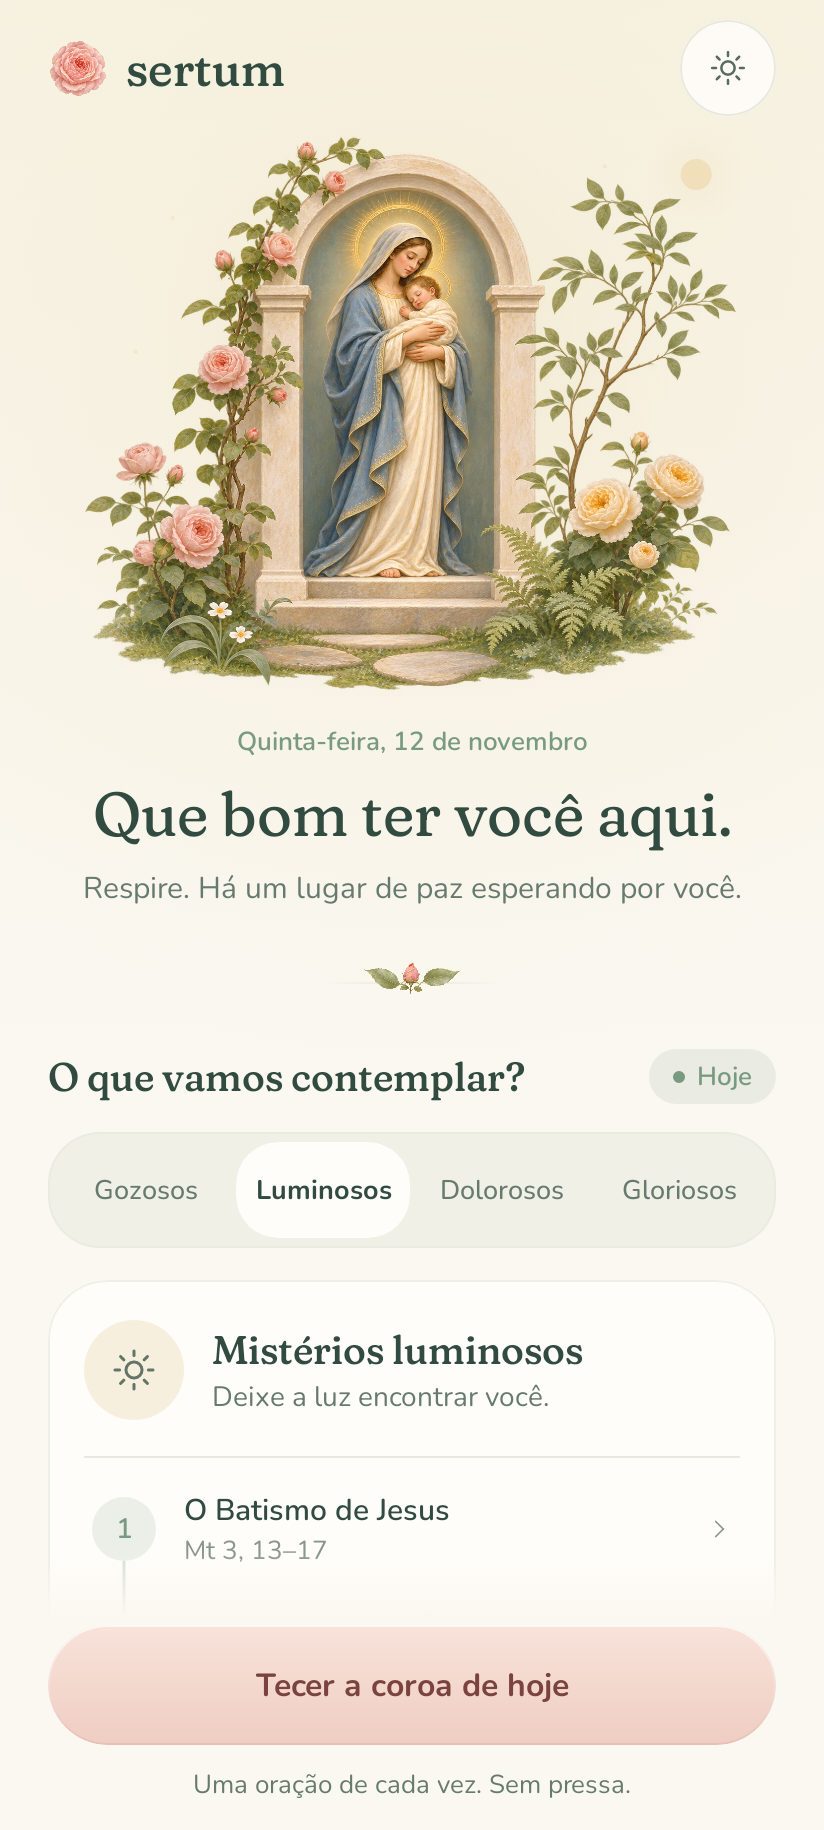
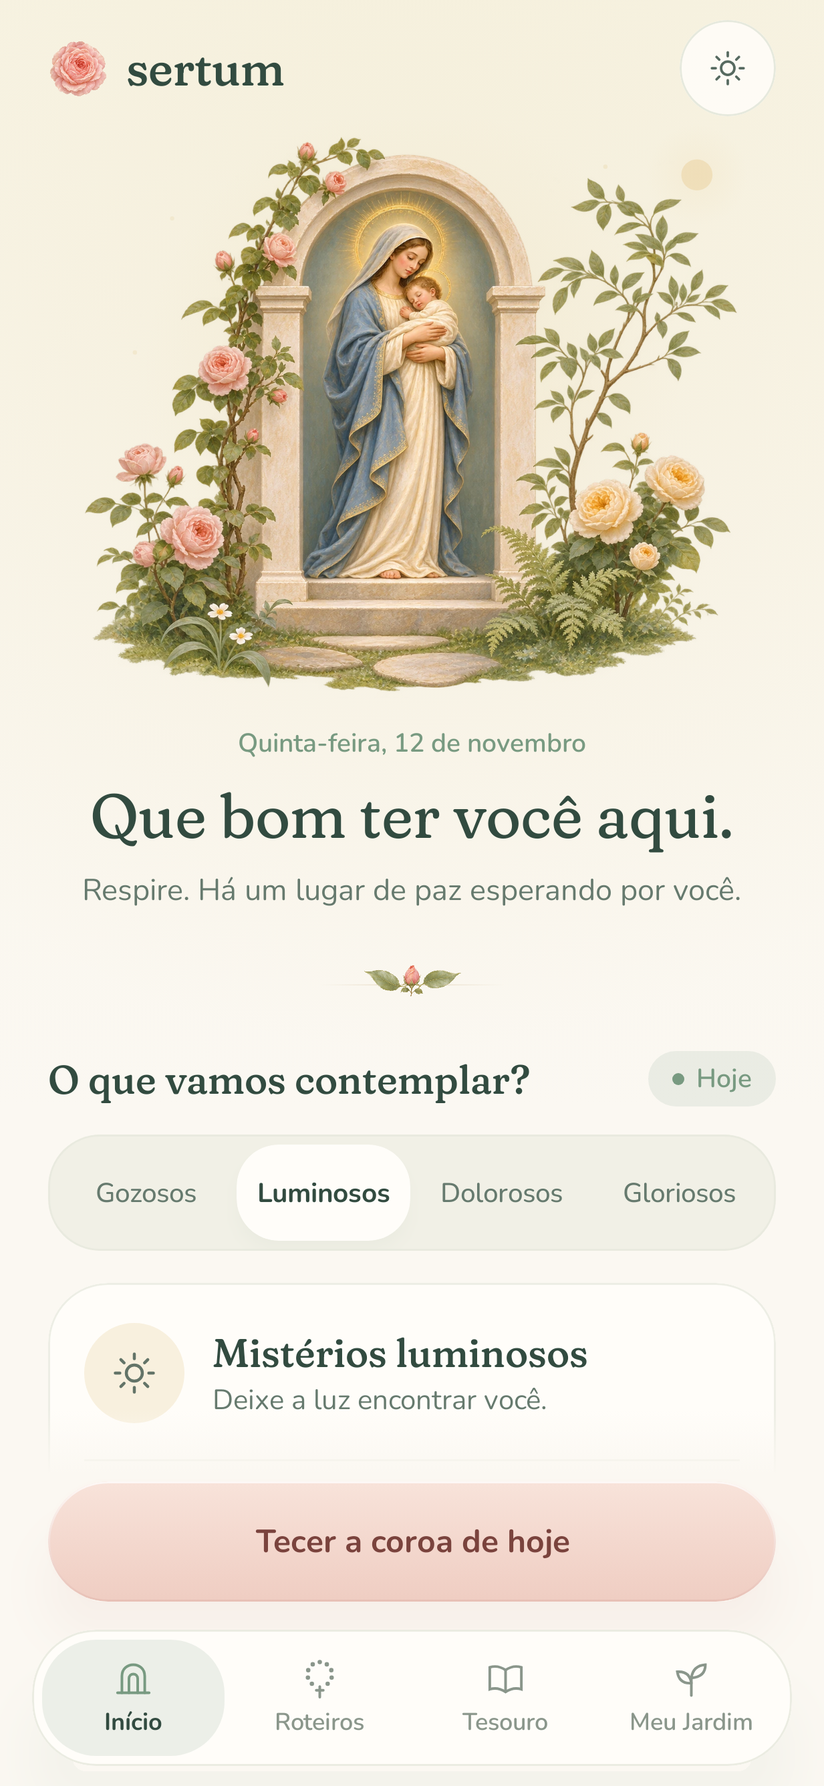
Document the Phase 2 interface and add its screenshots
Describes the four places, Roteiros, the bottom sheet, the mystery's layers,
and the places in bud in the design system, and shows them in the README with
a plain account of what is in the interface now and what is still to come.
The sanctuary screenshots are refreshed to include the bar.

Claude-Session: https://claude.ai/code/session_01FJFosZcX7b6SykGLJQ5feG

diff --git a/README.md b/README.md
@@ -26,7 +26,7 @@ Open Sertum and arrive in a small garden: warm cream, sage leaves, clay-colored 
 
 *Sertum Rosarum* means “crown of roses.” That image shapes the whole app: each prayer becomes a rose, five mysteries form a crown, and the completed rosary is gently offered at the end.
 
-**Phase 1 is implemented.** The interface and fixed prayers are in Brazilian Portuguese. Prayer content, fonts, and artwork are bundled; the prayer experience needs no network connection.
+**Phase 1 is implemented, and the Phase 2 interface is in place.** The interface and fixed prayers are in Brazilian Portuguese. Prayer content, fonts, and artwork are bundled; the prayer experience needs no network connection.
 
 ## A garden in every screen
 
@@ -81,6 +81,58 @@ Prayer position survives rotation. Compact mystery controls preserve access to t
 The animation is rendered from the Android Compose UI at controlled frame times. Ambient light and leaf movement stop when system animations are disabled.
 
 </details>
+
+## Phase 2 interface: four places and a mystery in its dimensions
+
+The interface of Phase 2 is built and navigable. Its written content and the guided prayer of the other crowns are still to come, and the screens say so where it matters.
+
+<table>
+  <tr>
+    <th>Roteiros · every way of praying</th>
+    <th>Other crowns · each with its shape</th>
+    <th>A crown's sheet · seven of seven</th>
+  </tr>
+  <tr>
+    <td><img src="docs/screenshots/roteiros-day.png" width="250" alt="The Roteiros tab: three rosary guides on one card, themed rosaries as small painted cards, and the four-place bar" /></td>
+    <td><img src="docs/screenshots/roteiros-crowns.png" width="250" alt="Devotional crowns, each with a small glyph of its own bead layout and a pill saying it is still in bud" /></td>
+    <td><img src="docs/screenshots/guide-tears.png" width="250" alt="The sheet for the Crown of Tears: seven flowers on the stem, seven beads on the garland, and the path of the prayer" /></td>
+  </tr>
+</table>
+
+<table>
+  <tr>
+    <th>The mystery, layer by layer</th>
+    <th>Bead by bead</th>
+    <th>Contemplation sheet</th>
+  </tr>
+  <tr>
+    <td><img src="docs/screenshots/mystery-dimensions.png" width="250" alt="The Annunciation announced as a card of three layers joined by a stem, with the biblical scene open" /></td>
+    <td><img src="docs/screenshots/prayer-meditated.png" width="250" alt="An Ave-Maria led by a soft card with the mystery's name and one line to contemplate" /></td>
+    <td><img src="docs/screenshots/mystery-sheet.png" width="250" alt="A sheet over the prayer with the scene, the meaning, and the fruit of the mystery laid out to read" /></td>
+  </tr>
+</table>
+
+<details>
+<summary><strong>See the catechetical notes, the litany's two voices, Vigil, and the places still in bud</strong></summary>
+
+<table>
+<tr><th>Why we pray this way</th><th>Two voices</th><th>Roteiros at dusk</th><th>Tesouro, in bud</th></tr>
+<tr>
+<td><img src="docs/screenshots/prayer-catechetical.png" width="200" alt="The Sign of the Cross with a honey-tinted note explaining why the rosary begins with it" /></td>
+<td><img src="docs/screenshots/guide-litany.png" width="200" alt="The complete rosary's sheet, showing the litany as a call and its answer in rose" /></td>
+<td><img src="docs/screenshots/roteiros-vigil.png" width="200" alt="The Roteiros tab in deep forest green" /></td>
+<td><img src="docs/screenshots/tesouro.png" width="200" alt="The Treasury tab as a flowerbed in bud, naming what will grow there" /></td>
+</tr>
+</table>
+
+</details>
+
+| Part of Phase 2 | In the interface now | Still to come |
+| --- | --- | --- |
+| Four-place navigation | Início, Roteiros, Tesouro, and Meu Jardim on a custom floating bar that leaves during prayer | Tesouro and Meu Jardim open in Phases 3 and 4 |
+| Mysteries in four dimensions | The layered mystery card before each decade, the contemplation sheet during it, and the bead-by-bead switch and line | Written layers and bead lines exist for the first mystery of each set, as sample copy; the other sixteen show a gentle invitation built from their passage and fruit |
+| Roteiros | Ten guides on three shelves, each with a sheet. The traditional, catechetical, and three themed rosaries can be prayed | Themed meditations, the litany as a prayed sequence, and the guided prayer of the four other crowns |
+| Any crown's shape | The stem and garland draw five or seven groups and three, seven, or ten beads; each crown's sheet shows its own | A prayer engine and delivered crown for seven-group crowns |
 
 ## A complete rosary
 
@@ -181,7 +233,7 @@ The debug APK is written to `app/build/outputs/apk/debug/app-debug.apk`. Build t
 
 ## Validation
 
-Phase 1 has been verified with **18 JVM unit tests**, **9 instrumented Compose UI tests on Android 13 / API 33**, successful debug and optimized release builds, and **zero Android Lint findings**.
+Phase 1 has been verified with **18 JVM unit tests**, **9 instrumented Compose UI tests on Android 13 / API 33**, successful debug and optimized release builds, and **zero Android Lint findings**. The Phase 2 interface adds **6 state tests**, **6 JVM interaction tests** that drive the real activity through Robolectric, and **9 JVM screenshot tests**.
 
 ```bash
 # Build, verify the prayer engine and session state, and run lint.
@@ -197,6 +249,8 @@ Phase 1 has been verified with **18 JVM unit tests**, **9 instrumented Compose U
 | Session state · 13 unit tests | Forward/backward boundaries; decade and bead jumps; completion timing; differentiated pulse events; pause/resume; saved-state restoration; day changes |
 | Device UI · 6 flows | Appearance and mystery selection; the complete rosary; bead and decade navigation with pause/resume; eyes-closed taps and swipes; landscape recreation; long-prayer reading without advancing the rosary |
 | Reader accessibility · 3 tests | Paging and return to start at 180% font size; no false scroll cues for short text in Vigil mode or content near the viewport's fit boundary |
+| Phase 2 state · 6 unit tests | Tabs leave the selection and a paused crown untouched; ready guides start and guides in bud do not; bead lines follow only the Ave-Marias of a meditated rosary; every mystery has its three layers; catechetical notes are not repeated on every bead |
+| Phase 2 interface · 6 JVM flows | Four tabs and back; the bar leaving and returning around prayer; seven-of-seven and seven-of-ten crowns in their sheets; closing a sheet by back and by its veil; starting the catechetical and themed rosaries from a sheet; the mystery's layers, bead line, and contemplation sheet |
 
 The UI suite also captures all six views shown above. CI collects them in the **compose-ui-results** artifact before removing the test app. For fresh local captures and the same optimized release launch check, follow the [device verification instructions](docs/build-and-releases.md#local-verification); the helper saves screenshots under `app/build/outputs/screenshots`.
 
@@ -226,6 +280,8 @@ flowchart LR
 | Prayer domain | [`domain/prayer`](app/src/main/java/com/sertumrosarum/domain/prayer) | Immutable fixed prayers, twenty mysteries, weekday resolution, and deterministic sequence construction |
 | Prayer session | [`feature/prayer`](app/src/main/java/com/sertumrosarum/feature/prayer) | State transitions, saved-state recovery, immersive prayer, and crown delivery |
 | Sanctuary | [`feature/sanctuary`](app/src/main/java/com/sertumrosarum/feature/sanctuary) | Greeting, garden, mystery controls, appearance, and session continuation |
+| Roteiros | [`feature/guides`](app/src/main/java/com/sertumrosarum/feature/guides) | The guide catalogue's interface copy and crown shapes, the three shelves, and each guide's sheet |
+| Places in bud | [`feature/treasury`](app/src/main/java/com/sertumrosarum/feature/treasury), [`feature/garden`](app/src/main/java/com/sertumrosarum/feature/garden) | The Tesouro and Meu Jardim tabs, ready for Phases 3 and 4 |
 | Design system | [`ui/theme`](app/src/main/java/com/sertumrosarum/ui/theme), [`ui/components`](app/src/main/java/com/sertumrosarum/ui/components) | Custom tokens, fonts, controls, and press feedback |
 | Original artwork | [`ui/canvas`](app/src/main/java/com/sertumrosarum/ui/canvas) | Marian garden, roses, living bead arcs, and the completed crown |
 | Tactile feedback | [`core/haptics`](app/src/main/java/com/sertumrosarum/core/haptics) | Android `VibratorManager` and differentiated `VibrationEffect` patterns |
@@ -245,12 +301,12 @@ Versions live in [`gradle/libs.versions.toml`](gradle/libs.versions.toml). The a
 
 ## Roadmap
 
-The current app is the complete **Phase 1 vertical slice**. The following phases are planned and are not represented as shipping features.
+The current app is the complete **Phase 1 vertical slice** with the **Phase 2 interface** on top of it. The remaining work is planned and is not represented as shipping features.
 
 | Phase | Milestone | Status |
 | --- | --- | --- |
 | **1** | Garden sanctuary, custom design system, complete rosary counter, living roses, tactile navigation, and crown delivery | **Implemented** |
-| **2** | Four-dimensional mysteries, bead-by-bead meditations, prayer scripts, and devotional chaplets | Planned |
+| **2** | Four-dimensional mysteries, bead-by-bead meditations, prayer scripts, and devotional chaplets | **Interface implemented**; the complete written content, the litany, and the chaplet engine are planned |
 | **3** | Prayer treasury, Portuguese / Latin mode, prayer annotations, and a mystery study guide | Planned |
 | **4** | Persistent intentions, prayer history, preference storage, and the personal garden | Planned |
 | **5** | Lumen catechist and custom rosary supplements with doctrinal guardrails | Planned |

diff --git a/docs/design-system.md b/docs/design-system.md
@@ -53,15 +53,43 @@ Cards and primary actions use 30 dp corners; selectors and icon controls are ful
 
 ## Screens
 
+### The four places
+
+A soft floating shelf at the foot of the screen holds four places: **Início**, **Roteiros**, **Tesouro**, and **Meu Jardim**. Each has a custom line icon (the garden's niche, a small open rosary, an open book, a sprout) and a label. The chosen place rests on a sage tint; nothing is underlined or badged. Pages leave room for the shelf and fade into it, so it never sits on their words. When prayer begins the shelf slips away below the screen, and returns with the sanctuary. Back returns from any place to Início.
+
+Outside Início, the rose and the place's name sit where the wordmark sits at home.
+
 ### Sanctuary
 
-The Marian garden opens the screen, under a small floral wordmark and the appearance control. A centered greeting follows. Four soft mystery controls lead to one card that holds the chosen mysteries: their invitation, then five moments joined by a stem. The page dissolves into the primary prayer action, which stays within reach. A paused crown offers a gentle continuation card.
+The Marian garden opens the screen, under a small floral wordmark and the appearance control. A centered greeting follows. Four soft mystery controls lead to one card that holds the chosen mysteries: their invitation, then five moments joined by a stem. A quiet link beneath it leads to Roteiros. The page dissolves into the primary prayer action, which stays within reach above the shelf. A paused crown offers a gentle continuation card.
+
+### Roteiros
+
+Every way of praying sits on one of three shelves. **O santo terço** and **Outras coroas devocionais** are single cards whose rows are separated by a hairline; **Terços temáticos** is a row of small painted cards that runs from edge to edge, each washed in the colour of its intention. A devotional crown is introduced by a small glyph of its own shape, seen from above: one dot for each small bead and a honey dot where each group begins, so five decades, seven septets, and seven decades differ at a glance. Small sage pills carry what distinguishes a guide (*Iniciante*, *Ladainha*, its shape); a honey pill, *Em botão*, marks a crown whose guided prayer has not opened yet.
+
+Touching a guide raises its sheet: what it is, the crown's shape, and the path of the prayer as buds on a stem ending in a rose. The shape is drawn with the same stem and garland as the prayer screen and answers to touch, so a septet of seven can be felt before it is prayed. The complete rosary also shows the litany's two voices. A rosary that is ready offers the mystery selector, the bead-by-bead switch, and one petal action that stays in view; a crown in bud says so plainly in its place.
+
+### Bottom sheet
+
+A sheet is a rounded page of the background colour that rises over a dusk-green veil, never a grey one. It closes by dragging its handle down, touching the veil, or going back. Its content scrolls beneath the handle, and an action, when there is one, stays at its foot.
+
+### Tesouro and Meu Jardim
+
+Until their own phases, these two places are flowerbeds in bud: a single painted bud in slow rings of light, the place's purpose in one line, and a card naming what will grow there, joined by the same stem as the mysteries. They promise nothing with a date, and Meu Jardim says outright that it will keep no goals or streaks.
 
 ### Prayer
 
 Five painted buds and roses show mystery progress along a leafed stem that grows as the prayer advances. The current mystery is an ivory bloom in a fine gold setting. Compact layouts pair the botanical marks with mystery numbers. Full prayer text has generous space and scrolls for longer prayers. The ten beads are separate, directly selectable closed buds on a garland; each blends into a layered blush rose with a spring animation and a fine selection ring. Previous and next actions remain visible on short screens.
 
 Overflowing prayers show a persistent sage reading-position rail. Soft alpha fades appear only at edges with hidden text, revealing the actual garden background. A separate 48 dp touch target says **Continue lendo** and advances by most of a viewport, retaining an overlap for reading continuity. At the end it becomes **Voltar ao início**. These cues disappear when the complete text fits. Each new prayer starts at the top; scrolling never advances the rosary. Native accessibility scrolling remains available, and the reading cue exposes its action and whether more text remains.
+
+A mystery is announced in its dimensions. Its card holds three layers joined by a stem (**A cena bíblica**, **O sentido da contemplação**, **O fruto do mistério**) which open one at a time, the scene first. Layer text is set in the prayer serif and aligned left for reading; the fruit is named in rose above its practice. Beneath a hairline, a switch turns on the fourth dimension, the **terço meditado conta a conta**. The switch is a bud that blooms into a rose as it crosses.
+
+During the decade, the chapter line becomes a small sage pill naming the mystery. It opens the contemplation sheet, where all three layers are laid out to read and, when the bead-by-bead rosary is on, the ten lines of the decade are listed with the current bead resting on a petal. With the bead-by-bead rosary on, each Ave-Maria is led by a soft card with a fine honey edge that carries the mystery's name and the line to contemplate; it takes the heading's place, so the whole prayer still fits beneath it.
+
+The catechetical guide adds one honey-tinted note above a prayer, titled **Por que rezamos assim?**. A note appears the first time a prayer comes in a group, never on every bead.
+
+The mystery stem and the bead garland draw any crown: five or seven flowers on the stem, and three, seven, or ten beads on the garland, with flowers a little smaller when seven share the stem.
 
 Eyes-closed mode replaces the reading area with a concise prayer heading and calm supporting copy. A large tactile garden surface occupies half the available height, with slow rings breathing around a single rose. Tap or swipe left/up to advance; swipe right to return. Its accessibility action also advances the prayer.
 
@@ -73,11 +101,11 @@ A crown of fifty roses woven with leaves surrounds a large central blossom. The 
 
 - The home garden's surrounding light and pollen move on one slow breath; the sacred painting stays at rest. Active prayer roses have a slow surrounding glow; completed roses open with a damped spring. Leaves move by less than a dp along the mystery stem and subtly around the crown.
 - Ambient motion stays still when system animations are turned off, including when the setting changes while the app is open.
-- Prayer routes crossfade; buttons gently compress on press.
+- Prayer routes and tabs crossfade; buttons gently compress on press. Sheets rise on a damped spring and their veil fades with them.
 - Small beads use a soft single pulse. Prayer and decade boundaries use two pulses; completion uses three growing pulses.
-- Every icon control has a Portuguese description. Mystery and bead controls expose their selected state and position.
+- Every icon control has a Portuguese description. Mystery and bead controls expose their selected state and position. Tabs are exposed as tabs with their purpose, switches as switches, each mystery layer as open or closed, and a sheet as a named pane that can be dismissed.
 - The eyes-closed surface exposes a screen-reader action as well as touch gestures.
 - Larger text and long prayers scroll. Compact layouts preserve navigation and prayer position through rotation.
 - Fonts, artwork, and all prayer content are bundled and available offline.
 
-Implementation lives in `ui/theme`, `ui/components`, `ui/canvas`, `feature/sanctuary`, and `feature/prayer`.
+Implementation lives in `ui/theme`, `ui/components`, `ui/canvas`, `feature/sanctuary`, `feature/guides`, `feature/treasury`, `feature/garden`, and `feature/prayer`.
